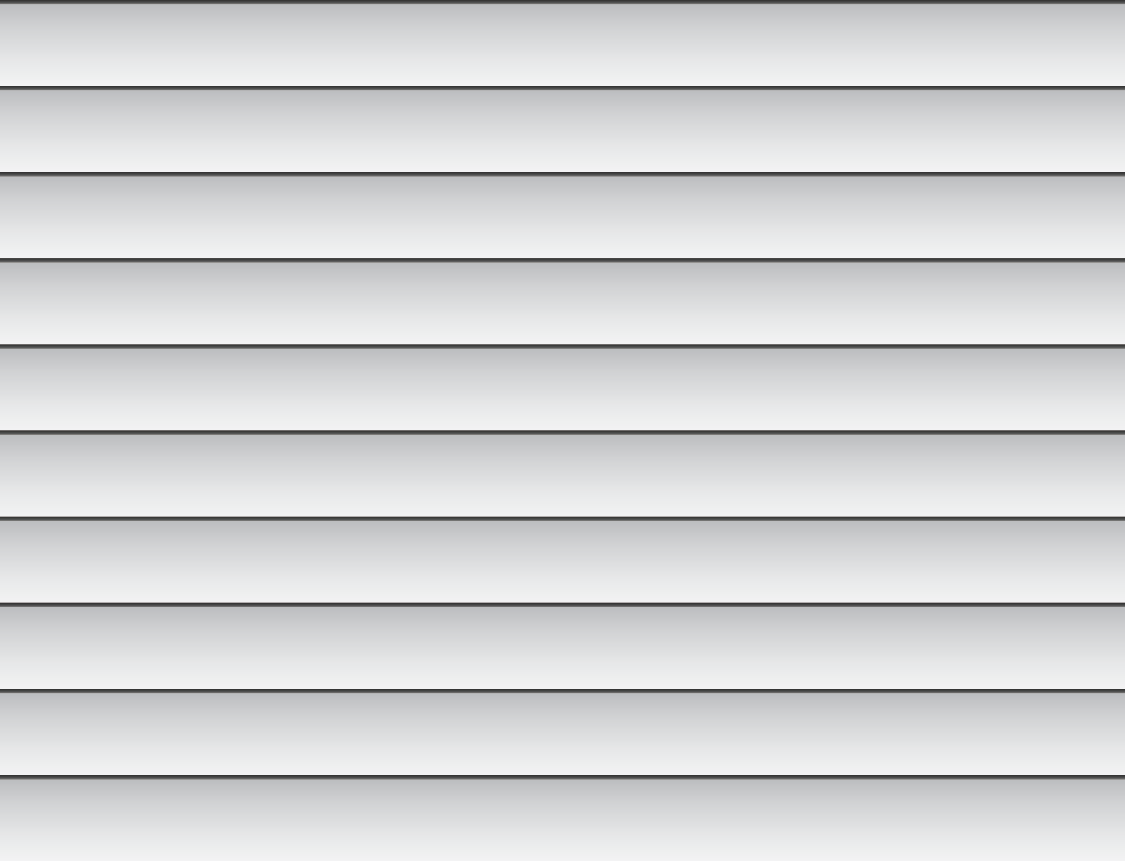
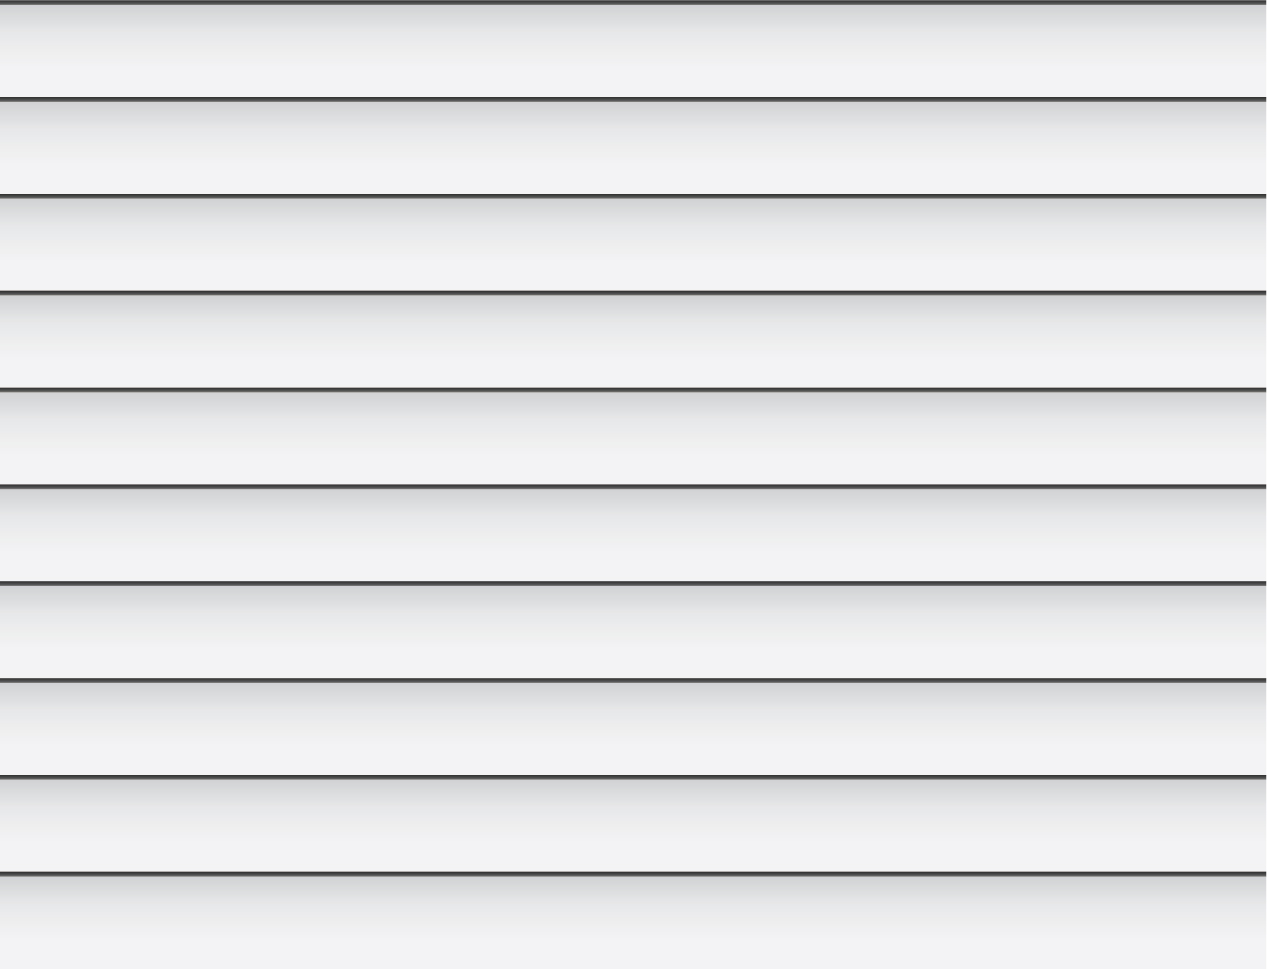
texture work

diff --git a/src/main/java/org/concord/energy3d/gui/MainFrame.java b/src/main/java/org/concord/energy3d/gui/MainFrame.java
@@ -247,6 +247,7 @@ public class MainFrame extends JFrame {
 	private JRadioButtonMenuItem textureSimpleMenuItem;
 	private JRadioButtonMenuItem textureFullMenuItem;
 	private JRadioButtonMenuItem textureBrickMenuItem;
+	private JRadioButtonMenuItem textureGrayShingleMenuItem;
 	private JRadioButtonMenuItem textureSouthernMenuItem;
 	private final ButtonGroup textureButtonGroup = new ButtonGroup();
 	private JMenu themeMenu;
@@ -1732,6 +1733,7 @@ public class MainFrame extends JFrame {
 					Util.selectSilently(noTextureMenuItem, Scene.getInstance().getTextureMode() == TextureMode.None);
 					Util.selectSilently(textureSimpleMenuItem, Scene.getInstance().getTextureMode() == TextureMode.Simple);
 					Util.selectSilently(textureFullMenuItem, Scene.getInstance().getTextureMode() == TextureMode.Full);
+					Util.selectSilently(textureGrayShingleMenuItem, Scene.getInstance().getTextureMode() == TextureMode.GRAY_SHINGLE_ROOF);
 					Util.selectSilently(textureBrickMenuItem, Scene.getInstance().getTextureMode() == TextureMode.BRICK);
 					Util.selectSilently(textureSouthernMenuItem, Scene.getInstance().getTextureMode() == TextureMode.SOUTHERN);
 				}
@@ -1740,6 +1742,7 @@ public class MainFrame extends JFrame {
 			textureMenu.add(getNoTextureMenuItem());
 			textureMenu.add(getTextureSimpleMenuItem());
 			textureMenu.add(getTextureFullMenuItem());
+			textureMenu.add(getTextureGrayShingleMenuItem());
 			textureMenu.add(getTextureBrickMenuItem());
 			textureMenu.add(getTextureSouthernMenuItem());
 
@@ -3445,6 +3448,28 @@ public class MainFrame extends JFrame {
 			textureButtonGroup.add(textureSouthernMenuItem);
 		}
 		return textureSouthernMenuItem;
+	}
+
+	public JRadioButtonMenuItem getTextureGrayShingleMenuItem() {
+		if (textureGrayShingleMenuItem == null) {
+			textureGrayShingleMenuItem = new JRadioButtonMenuItem("Gray Shingle Roof");
+			textureGrayShingleMenuItem.addItemListener(new ItemListener() {
+				@Override
+				public void itemStateChanged(final ItemEvent e) {
+					if (e.getStateChange() == ItemEvent.SELECTED) {
+						final ChangeTextureCommand c = new ChangeTextureCommand();
+						Scene.getInstance().setTextureMode(TextureMode.GRAY_SHINGLE_ROOF);
+						Scene.getInstance().setEdited(true);
+						if (MainPanel.getInstance().getEnergyButton().isSelected()) {
+							MainPanel.getInstance().getEnergyButton().setSelected(false);
+						}
+						SceneManager.getInstance().getUndoManager().addEdit(c);
+					}
+				}
+			});
+			textureButtonGroup.add(textureGrayShingleMenuItem);
+		}
+		return textureGrayShingleMenuItem;
 	}
 
 	public JRadioButtonMenuItem getBlueSkyMenuItem() {

diff --git a/src/main/java/org/concord/energy3d/model/Roof.java b/src/main/java/org/concord/energy3d/model/Roof.java
@@ -695,6 +695,9 @@ public abstract class Roof extends HousePart implements Thermal {
 		if (t == TextureMode.Full) {
 			return "roof_01.png";
 		}
+		if (t == TextureMode.GRAY_SHINGLE_ROOF) {
+			return "roof_02.png";
+		}
 		if (t == TextureMode.BRICK) {
 			return "roof_03.png";
 		}

diff --git a/src/main/java/org/concord/energy3d/model/Wall.java b/src/main/java/org/concord/energy3d/model/Wall.java
@@ -1458,6 +1458,9 @@ public class Wall extends HousePart implements Thermal {
 		if (t == TextureMode.Full) {
 			return "wall_01.png";
 		}
+		if (t == TextureMode.GRAY_SHINGLE_ROOF) {
+			return "wall_02.png";
+		}
 		if (t == TextureMode.BRICK) {
 			return "wall_03.png";
 		}

diff --git a/src/main/java/org/concord/energy3d/scene/Scene.java b/src/main/java/org/concord/energy3d/scene/Scene.java
@@ -214,7 +214,7 @@ public class Scene implements Serializable {
 	};
 
 	public static enum TextureMode {
-		None, Simple, Full, BRICK, SOUTHERN
+		None, Simple, Full, BRICK, SOUTHERN, GRAY_SHINGLE_ROOF
 	};
 
 	public static Scene getInstance() {

diff --git a/src/main/java/org/concord/energy3d/model/Door.java b/src/main/java/org/concord/energy3d/model/Door.java
@@ -191,6 +191,9 @@ public class Door extends HousePart implements Thermal {
 		if (t == TextureMode.SOUTHERN) {
 			return "door.jpg";
 		}
+		if (t == TextureMode.GRAY_SHINGLE_ROOF) {
+			return "door.jpg";
+		}
 		return null;
 	}
 
